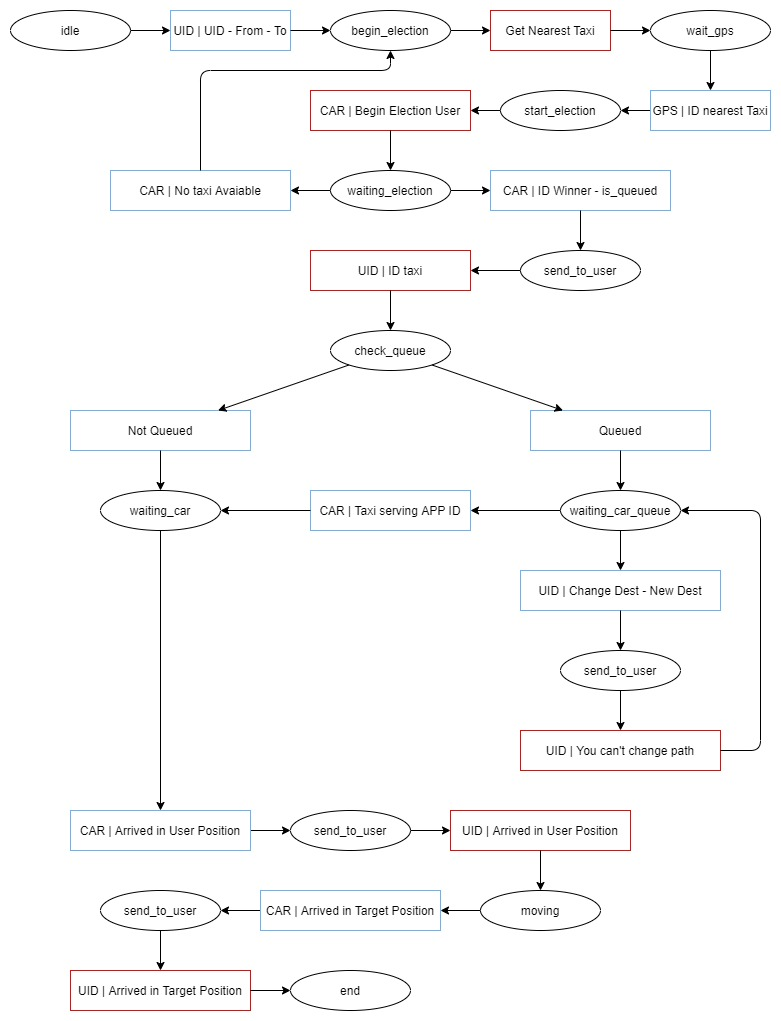
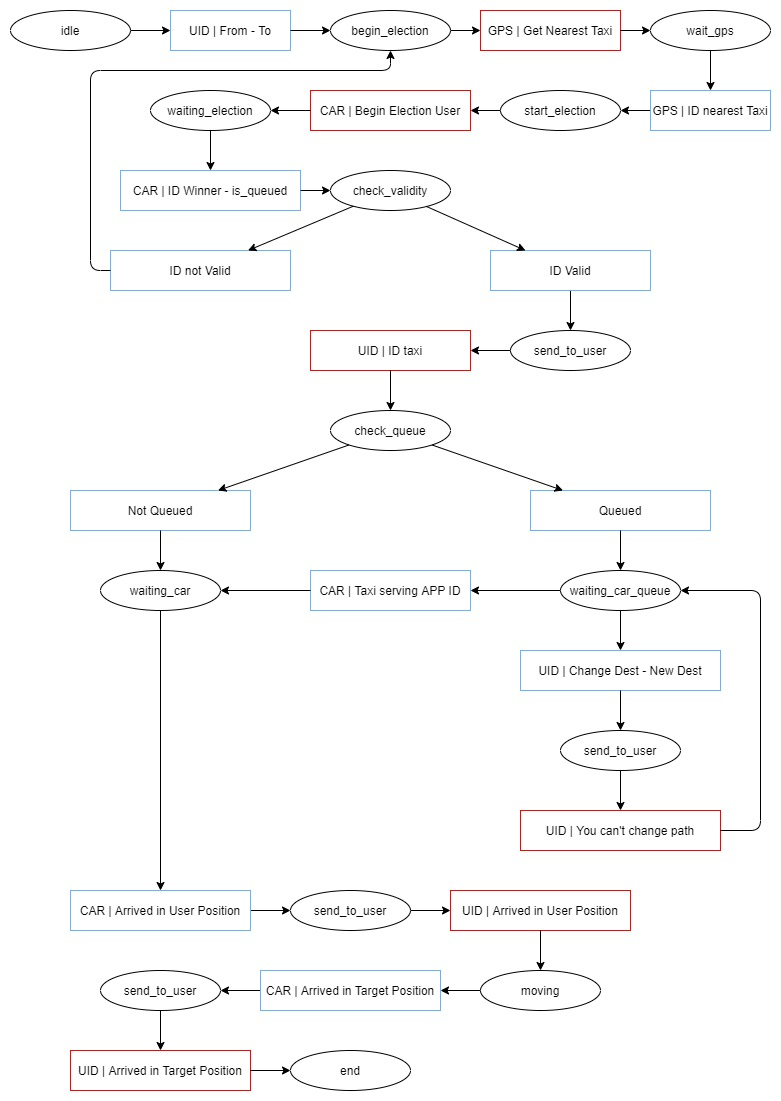
Relazione | Messaggi

diff --git a/relazione/progetto.tex b/relazione/progetto.tex
@@ -11,16 +11,18 @@ In questo capitolo vengono descritte l'architettura del software, i protocolli e
 Qui di seguito sono descritti i vari moduli che si intende implementare per il progetto:
 
 \begin{itemize} \label{modules}
-	\item Modulo Entità Macchina: rappresenta l'astrazione dell'entità veicolo.
 	\item Modulo Entità Utente: rappresenta l'astrazione dell'entità utente.
 	\item Modulo Entità Ambiente : rappresenta l'astrazione dell'entità ambiente.
 	\item Mappa Città: fornisce i metodi di lettura e modifica della mappa della città. Per le modifiche utilizza il modulo degli algoritmi sui grafi per controllarne la fattibilità. Questo modulo astrae il fatto che è presente un grafo per la rappresentazione della mappa.
 	\item Algoritmi Grafo: fornisce gli algoritmi che è possibile utilizzare sui grafi. Per esempio include Dijkstra, BFS, DFS, aggiungi nodo / arco, ...
-	\item Scheda wireless: permettendo di conoscere le entità vicine.
-	\item Invio Messaggi: permette la comunicazione fra entità, controllando, la formattazione dei messaggi da inviare e se l'entità destinataria esiste. Essa simula la scheda di comunicazione.
-	\item Modulo per l'algoritmo di elezione del leader: implementa la funzionalità della scelta della macchina da assegnare all'utente.
-	\item Modulo interfaccia cliente-servizio: rappresenta l'app che utilizzerebbe l'utente per usufruire del servizio. In tal senso, fornisce le operazioni che un cliente può richiedere al sistema e comunica all'entità cliente gli eventuali messaggi. Il modulo di gestione del taxi comunica a questo modulo gli eventuali cambi di stato.
-	\item Modulo gestione macchine: fornisce i metodi per ricaricare le batterie delle macchine, ne gestiscono gli incidenti, movimento e gestione eventi.
+	\item Localizzatore Vicini: permette di conoscere le entità vicine.
+	\item Invio Messaggi: permette la comunicazione fra entità controllando la buona formattazione dei messaggi da inviare. Essa simula la scheda di comunicazione.
+	\item Modulo Taxi: è formato al suo interno da due moduli:
+	\begin{itemize}
+		\item Modulo per l'algoritmo di elezione del leader: implementa la funzionalità della scelta della macchina da assegnare all'utente.
+		\item Modulo gestione taxi: esso è l'interfaccia con cui l'applicazione dell'utente comunica con un determinato taxi. Fornisce i metodi di prenotazione di una corsa, gestisce gli eventi generati dal sistema, fornisce il servizio di spostamento.
+	\end{itemize}
+	\item Modulo interfaccia cliente-servizio: rappresenta l'applicazione che utilizzerebbe l'utente per usufruire del servizio. In tal senso, fornisce le operazioni che un cliente può richiedere al sistema e comunica ad egli gli eventuali messaggi. Il modulo di gestione del taxi comunica a questo modulo gli eventuali cambi di stato.
 	\item Modulo gestione tempo: simula un orologio utilizzato per la gestione degli spostamenti e timeout.
 \end{itemize}
 
@@ -64,7 +66,7 @@ Il Taxi è stato invece modellato con questi automi:
  \item automa\_moving: rappresenta il veicolo in servizio.
  \item automa\_elezione: descrive gli stati per l'algoritmo di elezione ed eventi associati. 
  \item automa\_batteria: rappresenta un sensore della batteria interna al veicolo, notificando, quando necessario, che è necessario ricaricarla oppure lo stato di fermo della macchina per un certo periodo di tempo.
- \item automa\_listener: l'automa ascoltatore dei possibili eventi che interessano al veicolo. Riceve eventi dall'ambiente, comunica con automa\_app\_utente per dialogare con gli utenti e permette la comunicazione con gli altri veicoli. Esso è il tramite verso gli automi interni al veicolo: ogni evento indirizzato ad essi viene prima catturato da questo automa e poi inviato al corretto destinatario.
+ \item automa\_listener: ascoltatore dei possibili eventi che interessano al veicolo. Riceve messaggi dall'ambiente, comunica con l'automa dell'applicazione dell'utente e con gli automi suoi pari negli altri veicoli. Esso è anche il tramite verso gli automi interni al veicolo: ogni evento indirizzato ad essi viene prima catturato da questo automa e poi inviato al corretto destinatario. Nel caso in cui riceve un messaggio di inizio elezione, questo automa si sposta nello stato ``listen\_election''. Questo speciale stato comporta che vengano considerati solo i messaggi relativi all'elezione, tutti gli altri vengono messi in una speciale coda e verranno gestiti alla fine dell'elezione.
 \end{itemize} 
 
 All'interno del servizio, quando viene creato un nuovo utente oppure un nuovo taxi, vengono generate istanze di ogni automa correlato, vale a dire, quindi, i due automi per l'utente e i quattro automi per il taxi. Nel momento in cui un cliente è stato servito portandolo a destinazione, oppure un taxi viene rimosso dalla mappa, vengono distrutti gli automi correlati.
@@ -86,6 +88,7 @@ Il prefisso indica il destinatario o il mittente del messaggio. Nel caso in cui 
 	\item UID : automa\_utente
 	\item APP : automa\_app\_utente
 	\item ALL : tutti gli altri automi collegati alla stessa entità
+	\item GPS : localizzatore dell'entità
 	\item ENV : ambiente
 	\item EV  : generico messaggio per o da qualche automa della stessa entità
 \end{itemize}
@@ -98,8 +101,6 @@ Le relazioni tra automi e moduli definiti precedentemente alla sezione \ref{modu
 	\caption{Dipendenza tra moduli e automi}
 	\label{fig:schema_moduli_livello_2}
 \end{figure}
-
-\newpage
 
 Gli automi sono presenti nell'appendice.
 
@@ -187,9 +188,7 @@ Scopo del pacchetto è di notificare il vincitore dell'elezione e rilasciare i n
 [ID_WINNER, ID_USER, winner]
 \end{lstlisting}
 
-Il nodo iniziatore lo crea e lo invia in multicast a tutti i nodi coinvolti nell'elezione.
-
-Successiva
+Il nodo iniziatore lo crea e lo invia in multicast a tutti i nodi coinvolti nell'elezione. Il vincitore, ricevendolo, aggiorna la propria coda e notifica la presa in carico al cliente.
 
 \subsection{Creazione dello Spanning Tree}
 
@@ -210,17 +209,21 @@ L'algoritmo segue i seguenti passi:
 	\item Il nodo che riceve il pacchetto di starting election con TTL pari a zero, dopo avere inviato l'ack al genitore, non inoltra ulteriormente l'inizio dell'elezione ai vicini.
 	\item Ogni nodo, dopo aver ricevuto l'ack da parte dei figli alla partecipazione dell'elezione, calcola i propri costi e si mette in attesa che i propri figli, se presenti, gli mandino i costi calcolati. Alla ricezione di tutti i costi dei figli esso crea un pacchetto unico concatenando i costi ricevuti al proprio. Successivamente inoltre il pacchetto risultate al padre. Per la struttura di esso si faccia riferimenti a \ref{pacchetto_calcolato}.
 	\item Dopo aver inviato al padre i dati relativi ai costi, ogni nodo si mette in attesa di conoscere chi è il leader.
-	\item Quando il nodo iniziatore riceve tutti i dati calcola il leader in base alle proprietà descritte nella parte \ref{funzioni_di_costo_macchine}. 
-	\item Infine l'iniziatore invia il messaggio contentente il leader in multicasting a tutti i partecipanti all'elezione. Si faccia rifermento alla parte \ref{pacchetto_vincitore} per la descrizione del pacchetto.
+	\item Quando il nodo iniziatore riceve tutti i dati calcola il leader in base alle proprietà descritte nella parte \ref{funzioni_di_costo_macchine}. Nel caso in cui non sia presente alcun vincitore, l'identificativo del miglior taxi viene impostato a un valore di errore.
+	\item L'iniziatore invia il messaggio contenente il leader in multicasting a tutti i partecipanti all'elezione. Si faccia rifermento alla parte \ref{pacchetto_vincitore} per la descrizione del pacchetto.
 	\item Tutti i nodi ricevono la notifica del leader e in base al risultato compiono le azioni più opportune. In ogni caso escono dallo stato di elezione eliminando tutte le informazioni calcolate.
-	\item Il nodo vincitore comunica al modulo di ricezione del cliente, tramite le celle di comunicazione descritte nell'introduzione al punto \ref{problematiche_distribuite}, di essere pronto a servirlo e se egli è in coda oppure no.
+	\item In base al vincitore si hanno due casistiche:
+		\begin{itemize}
+			\item Vincitore presente: il nodo corrispondente aggiorna la propria coda dei nodi da visitare e comunica al modulo di ricezione del cliente, tramite le celle di comunicazione descritte nell'introduzione al punto \ref{problematiche_distribuite}, di essere pronto a servirlo e se egli è in coda oppure no.
+			\item Vincitore assente: il nodo iniziatore invia il pacchetto contenente l'id con errore anche all'applicazione dell'utente.
+		\end{itemize}
 \end{enumerate}
 
 Un esempio dei pacchetti scambiati durate l'algoritmo è presente all'immagine \ref{fig:messaggi_macchina_elezione}. La parte in basso a sinistra mostra lo spanning tree creato.
 
 \begin{figure}[htbp]
 	\centering
-	\includegraphics[width=15cm]{messaggi_macchina_elezione.jpg}
+	\includegraphics[width=14cm]{messaggi_macchina_elezione.jpg}
 	\caption{Rappresentazione dei messaggi scambiati durante l'elezione.}
 	\label{fig:messaggi_macchina_elezione}
 \end{figure}
@@ -244,36 +247,40 @@ I problemi possibili ma assenti per via dell'implementazione del sistema sono i 
 Viene discussa nella sezione Aggiornamento Mappa \ref{aggiornamento_mappa}.
 
 \subsubsection{Rimozione di una macchina}
-Sebbene il sistema venga costruito in modo che un nodo possa essere rimosso solamente se si trova nello stato "idle", è bene gestire i casi in cui l'eliminazione avvenga in ogni possibile stato, compresa l'elezione. Per risolvere il problema di attesa della risposta da un nodo ormai rimosso, ogni nodo invia dei messaggi di tipo "hello" per controllare lo stato del nodo collegato. In tal modo se non ricevono risposta entro un tempo ragionevole lo considerano rimosso e continuano l'algoritmo di elezione.
+Sebbene il sistema venga costruito in modo che una vettura possa essere rimossa solamente se si trova nello stato ``idle'', è bene gestire i casi in cui l'eliminazione avvenga in ogni possibile stato, compresa l'elezione. Per risolvere il problema di attesa della risposta da un taxi ormai rimosso, ogni nodo invia dei messaggi di tipo ``hello'' per controllare lo stato della vettura di cui sta aspettando il calcolo dei costi. In tal modo se non ricevono risposta entro un tempo ragionevole lo considerano rimosso e continuano l'algoritmo di elezione.
 
 \subsubsection{Perdita di pacchetti}
-Nel caso in cui vengano persi dei pacchetti durante qualsiasi fase dell'elezione, è possibile accorgersene poichè non ritornano i messaggi di ack. Una possibile soluzione per questo problema è l'utilizzo del protocollo TCP.
+Nel caso in cui vengano persi dei pacchetti durante qualsiasi fase dell'elezione, è possibile accorgersene poiché vengono restituiti i messaggi di acknowledgment. Una soluzione per questo problema è l'utilizzo del protocollo TCP.
 
 \subsection{Aggiornamento della mappa}\label{aggiornamento_mappa}
 
-Questa casistica comporta che i percorsi calcolati, nel caso utilizzino degli archi deprecati, non siano più validi. 
+Questa casistica considera il caso in cui i percorsi calcolati, nel caso utilizzino degli archi deprecati, non siano più validi. 
 
 L'aggiornamento può avvenire in diversi momenti e stati della macchina. 
 
 \begin{itemize}
-	\item Macchina in stato IDLE: Semplice aggiornamento, non comporta alcun problema.
-	\item Macchina in stato Running Election: al termine dell'elezione effettua l'aggiornamento. Se risulta vincitrice ed è necessario, ricalcola il percorso.
-	\item Macchina in stato Moving to Client o Moving to Target con un solo cliente: il veicolo effettua l'aggiornamento della mappa e, se necessario, ricarcola il percorso. Se è in grado di soddisfare l'utente, lo notifica del ritardo e torna nello stato precedente. Altrimenti notifica l'utente e inizia una leader election per l'utente.
-	\item Macchina in stato Moving to Client o Moving to Target con più clienti in coda: Effettua l'aggiornamento e calcola il massimo percorso che riesce a soddifare con la carica rimanente. In tal modo, nel caso in cui alcuni clienti non possano venir soddifatti li notifica con un messaggio di avviare autonomamente una nuova richiesta al sistema e li rimuove dalla coda. In questo caso non parte alcuna leader election. Nel caso peggiore in cui non riesca a soddisfare nemmeno il cliente corrente l'approccio è come al punto precedente.
-	\item Macchina in stato Running Election Bridge Mode: come detto precedentemente, esegue comunque il calcolo del leader e poi si comporta in base al numero di utenti in coda.
+	\item Macchina in stato ``idle'': semplice aggiornamento, non comporta alcun problema.
+	\item Macchina in stato ``Running Election'': l'automa ``ascoltatore'' si trova nello stato ``listen\_election'', quindi l'aggiornamento avviene non appena l'elezione si è conclusa.
+	\item Macchina in stato ``Moving'': significa che la coda dei punti da visitare non è vuota. Nello stato ``update\_map'' dell'automa ``ascoltatore'' vengono calcolati quanti utenti presenti nella coda possono essere soddisfatti e quindi si hanno tre possibili scenari:
+	\begin{itemize}
+		\item Tutti i clienti sono soddisfatti: notifica ai clienti con i nuovi tempi di percorrenza.
+		\item Alcuni clienti soddisfatti: i clienti soddisfatti ricevono un messaggio con i nuovi tempi, gli altri un messaggio di impossibilità nel soddisfare la richiesta. Sarà l'applicazione dell'utente a far ripartire l'elezione.
+		\item Nessun cliente soddisfatti: tutti i clienti riceveranno la notifica di impossibilità di erogazione del servizio.
+	\end{itemize}
 \end{itemize}
 
 \subsection{Diagrammi di sequenza dei messaggi}
-All'appendice \ref{messaggi_scambiati_appendix}, sono presenti i diagrammi di sequenza dei messaggi che vengono scambiati tra i diversi moduli per permettere le funzionalità del sistema.
-
+All'appendice \ref{messaggi_scambiati_appendix}, sono presenti i diagrammi di sequenza dei messaggi che vengono scambiati tra i diversi moduli per permettere le funzionalità del sistema. Il modulo di comunicazione dei messaggi non viene incluso nei diagrammi poiché sottinteso ad ogni comunicazione. L'invocazione di questo modulo corrisponde, negli automi, al passaggio a un generico stato che inizia con ``send'', pertanto anche questi stati non vengono riportati.
+I riquadri di colore giallo indicano gli stati mentre quelli di colore rosso indicano un riferimento ad altri diagrammi di sequenza.
 \begin{itemize}
-	\item Richiesta da parte dell'utente del servizio di trasporto \ref{fig:messaggi_utente_chiede_macchina}.
-	\item Movimento del taxi alla posizione dell'utente e successivo trasporto \ref{fig:messaggi_utente_trasporto}.
+	\item Richiesta da parte dell'utente del servizio di trasporto \ref{fig:messaggi_utente_request_car}.
+	\item Messaggi scambiati dall'applicazione dell'utente per la richiesta di un taxi. Questa è l'elezione dal punto di vista dell'app. \ref{fig:messaggi_app_utente_elezione}. Nella rappresentazione sono stati inseriti due veicoli, un iniziatore e un vincitore. In base ai risultati dell'elezione il messaggio del vincitore viene inviato dall'entità adatta.
+	\item Partecipazione all'elezione di una macchina non iniziatrice \ref{fig:messaggi_macchina_partecipazione_elezione}. Poiché è possibile che la macchina si trovi in diversi stati mentre viene avviato l'algoritmo di elezione, sono stati rappresentati tre possibili scenari.
+	\item Movimento del taxi alla posizione dell'utente e successivo trasporto \ref{fig:messaggi_utente_trasporto}. In questa fase vengono consumati i punti contenuti nella coda dell'automa movimento del taxi. Ogni punto è etichettato e in base al tipo di punto viene inviato un messaggio all'utente.
 	\item Richiesta di cambiamento di destinazione da parte dell'utente mentre il taxi è in viaggio verso l'utente \ref{fig:messaggi_utente_cambio_direzione_waiting}.
 	\item Richiesta di cambiamento di destinazione da parte dell'utente mentre il taxi lo sta trasportando \ref{fig:messaggi_utente_cambio_direzione_moving}.
-	\item Partecipazione all'elezione di una macchina non iniziatrice \ref{fig:messaggi_macchina_partecipazione_elezione}. Poiché è possibile che la macchina si trovi in diversi stati mentre viene avviato l'algoritmo di elezione, sono stati rappresentati tre possibili scenari.
 	\item Incidente di una macchina con conseguente notifica all'utente e ricerca di un taxi alternativo \ref{fig:messaggi_macchina_crash}.
-	\item Ricarica della macchina, rimozione della macchina dal sistema e aggiornamento della mappa  \ref{fig:messaggi_macchina_batteria_morte_mappaIdle}. In queste operazioni si considera che la macchina sia nello stato 'idle'.
+	\item Ricarica della macchina, rimozione della macchina dal sistema e aggiornamento della mappa  \ref{fig:messaggi_macchina_batteria_morte_mappaIdle}. In queste operazioni si considera che la macchina sia nello stato ``idle''.
 	\item Aggiornamento della mappa della città mentre il taxi si sta muovendo verso il cliente \ref{fig:messaggi_macchina_aggiornamento_mappa_to_client}.
 	\item Aggiornamento della mappa della città mentre il taxi sta trasportando il cliente a destinazione \ref{fig:messaggi_macchina_aggiornamento_mappa_to_target}.
 	\item Aggiornamento della mappa della città mentre il taxi è occupato con un utente e ne ha altri nella coda \ref{fig:messaggi_macchina_aggiornamento_mappa_clienti}.

diff --git a/relazione/appendici.tex b/relazione/appendici.tex
@@ -6,18 +6,83 @@
   
 \index{appendici}
 
-\section{Messaggi scambiati all'interno del sistema} \label{messaggi_scambiati_appendix}
+\section{Automi coinvolti}
 
 \begin{figure}[htbp]
 	\centering
-	\includegraphics[width=12cm]{messaggi_utente_chiede_macchina.jpg}
-	\caption{Messaggi scambiati per la richiesta di un trasporto.}
-	\label{fig:messaggi_utente_chiede_macchina}
+	\includegraphics[width=14cm]{automa_utente.jpg}
+	\caption{Rappresentazione degli stati possibili dell'entità utente.}
+	\label{fig:automa_utente}
 \end{figure}
 
 \begin{figure}[htbp]
 	\centering
-	\includegraphics[width=10cm]{messaggi_utente_trasporto.jpg}
+	\includegraphics[width=14cm]{automa_app_utente_flusso.jpg}
+	\caption{Rappresentazione degli stati utente per il servizio - spostamento utente.}
+	\label{fig:automa_app_utente_flusso}
+\end{figure}
+
+\begin{figure}[htbp]
+	\centering
+	\includegraphics[width=13cm]{automa_app_utente_stati.jpg}
+	\caption{Rappresentazione degli stati utente per il servizio - ulteriori eventi.}
+	\label{fig:automa_app_utente_stati}
+\end{figure}
+
+\begin{figure}[htbp]
+	\centering
+	\includegraphics[width=14cm]{automa_macchina_moving.jpg}
+	\caption{Rappresentazione degli stati macchina in servizio}
+	\label{fig:automa_moving}
+\end{figure}
+
+\begin{figure}[htbp]
+	\centering
+	\includegraphics[width=16cm]{automa_macchina_elezione.jpg}
+	\caption{Rappresentazione degli stati macchina - elezione}
+	\label{fig:automa_elezione}
+\end{figure}
+
+\begin{figure}[htbp]
+	\centering
+	\includegraphics[width=16cm]{automa_macchina_batteria.jpg}
+	\caption{Rappresentazione degli stati macchina - batteria}
+	\label{fig:automa_batteria}
+\end{figure}
+
+\begin{figure}[htbp]
+	\centering
+	\includegraphics[width=22cm, angle = 90]{automa_macchina_ascoltatore.jpg}
+	\caption{Rappresentazione degli stati macchina - listener}
+	\label{fig:automa_listener}
+\end{figure}
+
+\begin{figure}[htbp]
+	\centering
+	\includegraphics[width=13cm]{automa_macchina_global_events.jpg}
+	\caption{Eventi globali automi macchina}
+	\label{fig:automi_macchina_various}
+\end{figure}
+
+\section{Messaggi scambiati all'interno del sistema} \label{messaggi_scambiati_appendix}
+
+\begin{figure}[htbp]
+	\centering
+	\includegraphics[width=15cm]{messaggi_utente_request_car.jpg}
+	\caption{Messaggi scambiati per la richiesta di un trasporto.}
+	\label{fig:messaggi_utente_request_car}
+\end{figure}
+
+\begin{figure}[htbp]
+	\centering
+	\includegraphics[width=15cm]{messaggi_app_utente_elezione.jpg}
+	\caption{Messaggi scambiati dall'app dell'utente per l'elezione.}
+	\label{fig:messaggi_app_utente_elezione}
+\end{figure}
+
+\begin{figure}[htbp]
+	\centering
+	\includegraphics[width=15cm]{messaggi_utente_trasporto.jpg}
 	\caption{Messaggi scambiati per il trasporto dell'utente.}
 	\label{fig:messaggi_utente_trasporto}
 \end{figure}
@@ -78,67 +143,3 @@
 \label{fig:messaggi_macchina_aggiornamento_mappa_clienti}
 \end{figure}
 
-
-
-\begin{figure}[htbp]
-	\centering
-	\includegraphics[width=14cm]{automa_utente.jpg}
-	\caption{Rappresentazione degli stati possibili dell'entità utente.}
-	\label{fig:automa_utente}
-\end{figure}
-
-\begin{figure}[htbp]
-	\centering
-	\includegraphics[width=14cm]{automa_app_utente_flusso.jpg}
-	\caption{Rappresentazione degli stati utente per il servizio - spostamento utente.}
-	\label{fig:automa_app_utente_flusso}
-\end{figure}
-
-\begin{figure}[htbp]
-	\centering
-	\includegraphics[width=13cm]{automa_app_utente_stati.jpg}
-	\caption{Rappresentazione degli stati utente per il servizio - ulteriori eventi.}
-	\label{fig:automa_app_utente_stati}
-\end{figure}
-
-\begin{figure}[htbp]
-	\centering
-	\includegraphics[width=14cm]{automa_macchina_moving.jpg}
-	\caption{Rappresentazione degli stati macchina in servizio}
-	\label{fig:automa_moving}
-\end{figure}
-
-\begin{figure}[htbp]
-	\centering
-	\includegraphics[width=16cm]{automa_macchina_elezione.jpg}
-	\caption{Rappresentazione degli stati macchina - elezione}
-	\label{fig:automa_elezione}
-\end{figure}
-
-\begin{figure}[htbp]
-	\centering
-	\includegraphics[width=16cm]{automa_macchina_batteria.jpg}
-	\caption{Rappresentazione degli stati macchina - batteria}
-	\label{fig:automa_batteria}
-\end{figure}
-
-\begin{figure}[htbp]
-	\centering
-	\includegraphics[width=22cm, angle = 90]{automa_macchina_ascoltatore.jpg}
-	\caption{Rappresentazione degli stati macchina - listener}
-	\label{fig:automa_listener}
-\end{figure}
-
-\begin{figure}[htbp]
-	\centering
-	\includegraphics[width=13cm]{automa_macchina_ascoltatore.jpg}
-	\caption{Rappresentazione degli stati macchina - listener}
-	\label{fig:automa_listener_2}
-\end{figure}
-
-\begin{figure}[htbp]
-	\centering
-	\includegraphics[width=13cm]{automa_macchina_global_events.jpg}
-	\caption{Eventi globali automi macchina}
-	\label{fig:automi_macchina_various}
-\end{figure}
